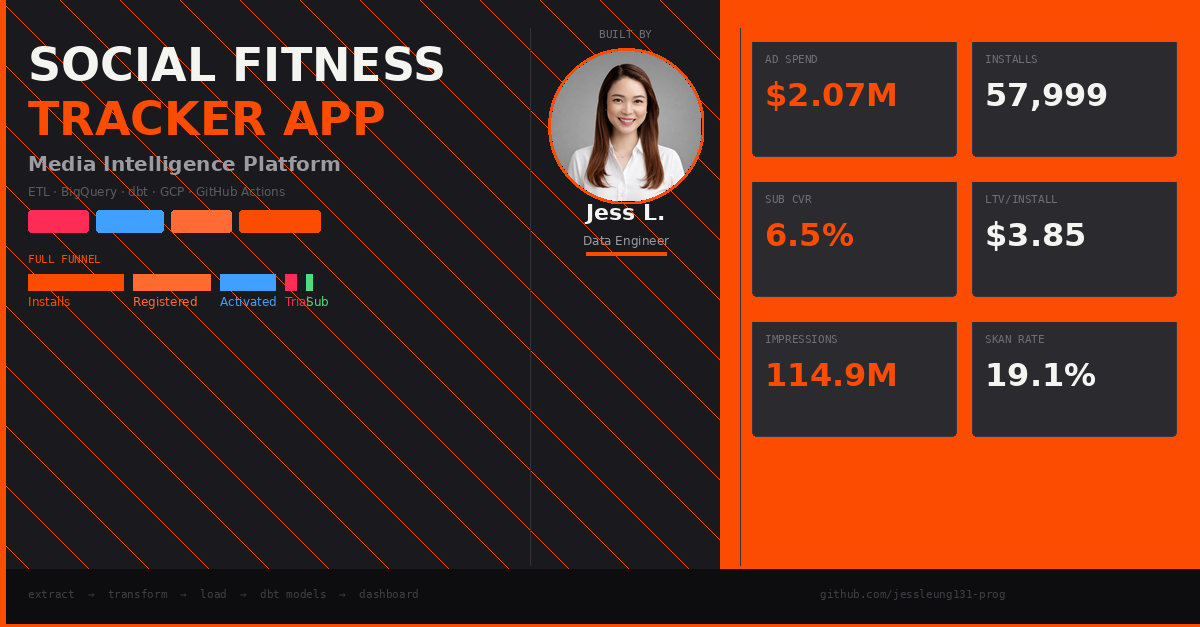
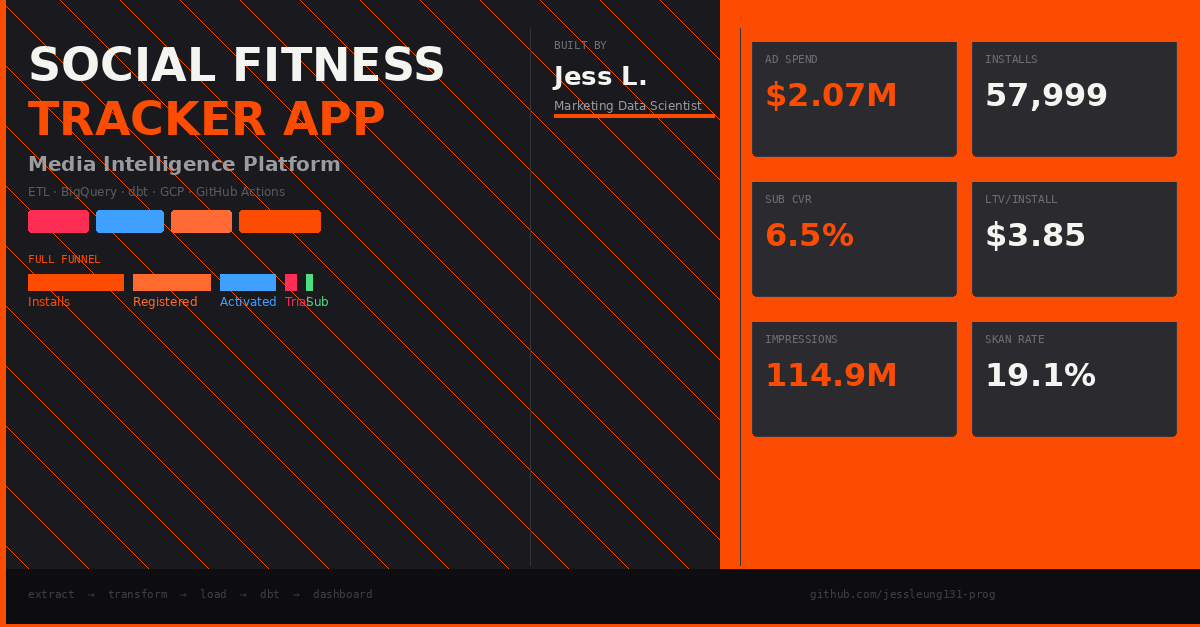
Remove headshot from public repo, update thumbnail text-only, remove base64 from HTML

Changed region(s): [[0.4317, 0.0303, 0.5858, 0.4242], [0.6783, 0.9394, 0.8325, 0.9697], [0.2467, 0.9394, 0.3392, 0.9697]]

diff --git a/index.html b/index.html
@@ -150,7 +150,7 @@ footer{background:var(--char-2);border-top:1px solid var(--border);padding:48px 
       <a href="#dashboard">Dashboard</a><a href="#funnel">Funnel</a>
       <a href="#etl">ETL</a><a href="#schema">Schema</a><a href="#repo">Repo</a>
     </div>
[1 lines of base64/hex data omitted]
+    <div style="display:flex;align-items:center;gap:16px"><span style="font-family:var(--mono);font-size:11px;color:var(--muted-2);letter-spacing:.06em">Built by <span style="color:var(--orange)">Jess L.</span></span><a class="nav-cta" href="https://github.com/jessleung131-prog/social-fitness-media-intelligence" target="_blank">GitHub ↗</a></div>
   </div>
 </nav>
 
